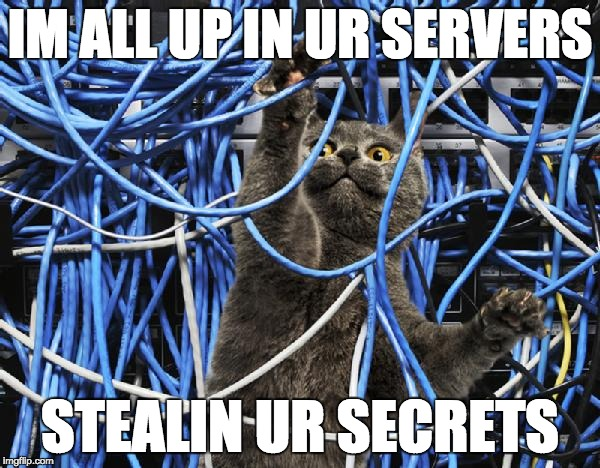
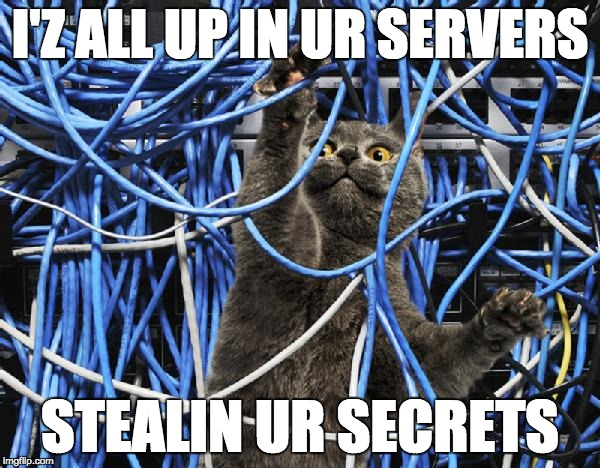
fix post links, also cats have bad grammar

Changed region(s): [[0.0, 0.0, 0.99, 0.1496]]

diff --git a/index.html b/index.html
@@ -9,9 +9,9 @@ image: ibelonghere.png
 		  <div class="postpreview">
 			<div class="postcontent">
 				<div class="date">{{ post.date | date: "%B %e, %Y" }}</div>
-				<h2><a href="{{site.url}}/{{ post.url }}">{{ post.title }}</a></h2>
+				<h2><a href="{{site.url}}{{ post.url }}">{{ post.title }}</a></h2>
 				<p>{{ post.excerpt }}</p>
-				<div class="more"><a href="{{site.url}}/{{ post.url }}"><em>View Full Post ></em></a></div>
+				<div class="more"><a href="{{site.url}}{{ post.url }}"><em>View Full Post ></em></a></div>
 			</div>
 			<div class="categories">
 			Category: 

diff --git a/Categories/arts.html b/Categories/arts.html
@@ -10,7 +10,7 @@ image: ibelonghere.png
 		   <div class="postpreview">
 			<div class="postcontent">
 				<div class="date">{{ post.date | date: "%B %e, %Y" }}</div>
-				<h2><a href="{{site.url}}/{{ post.url }}">{{ post.title }}</a></h2>
+				<h2><a href="{{site.url}}{{ post.url }}">{{ post.title }}</a></h2>
 				<p>{{ post.content }}</p>
 			</div>
 			<div class="categories">

diff --git a/Categories/science.html b/Categories/science.html
@@ -10,7 +10,7 @@ image: ibelonghere.png
 		   <div class="postpreview">
 			<div class="postcontent">
 				<div class="date">{{ post.date | date: "%B %e, %Y" }}</div>
-				<h2><a href="{{site.url}}/{{ post.url }}">{{ post.title }}</a></h2>
+				<h2><a href="{{site.url}}{{ post.url }}">{{ post.title }}</a></h2>
 				<p>{{ post.content }}</p>
 			</div>
 			<div class="categories">

diff --git a/Categories/technology.html b/Categories/technology.html
@@ -10,7 +10,7 @@ image: ibelonghere.png
 		   <div class="postpreview">
 			<div class="postcontent">
 				<div class="date">{{ post.date | date: "%B %e, %Y" }}</div>
-				<h2><a href="{{site.url}}/{{ post.url }}">{{ post.title }}</a></h2>
+				<h2><a href="{{site.url}}{{ post.url }}">{{ post.title }}</a></h2>
 				<p>{{ post.content }}</p>
 			</div>
 			<div class="categories">

diff --git a/Categories/thoughts.html b/Categories/thoughts.html
@@ -10,7 +10,7 @@ image: ibelonghere.png
 		   <div class="postpreview">
 			<div class="postcontent">
 				<div class="date">{{ post.date | date: "%B %e, %Y" }}</div>
-				<h2><a href="{{site.url}}/{{ post.url }}">{{ post.title }}</a></h2>
+				<h2><a href="{{site.url}}{{ post.url }}">{{ post.title }}</a></h2>
 				<p>{{ post.content }}</p>
 			</div>
 			<div class="categories">
